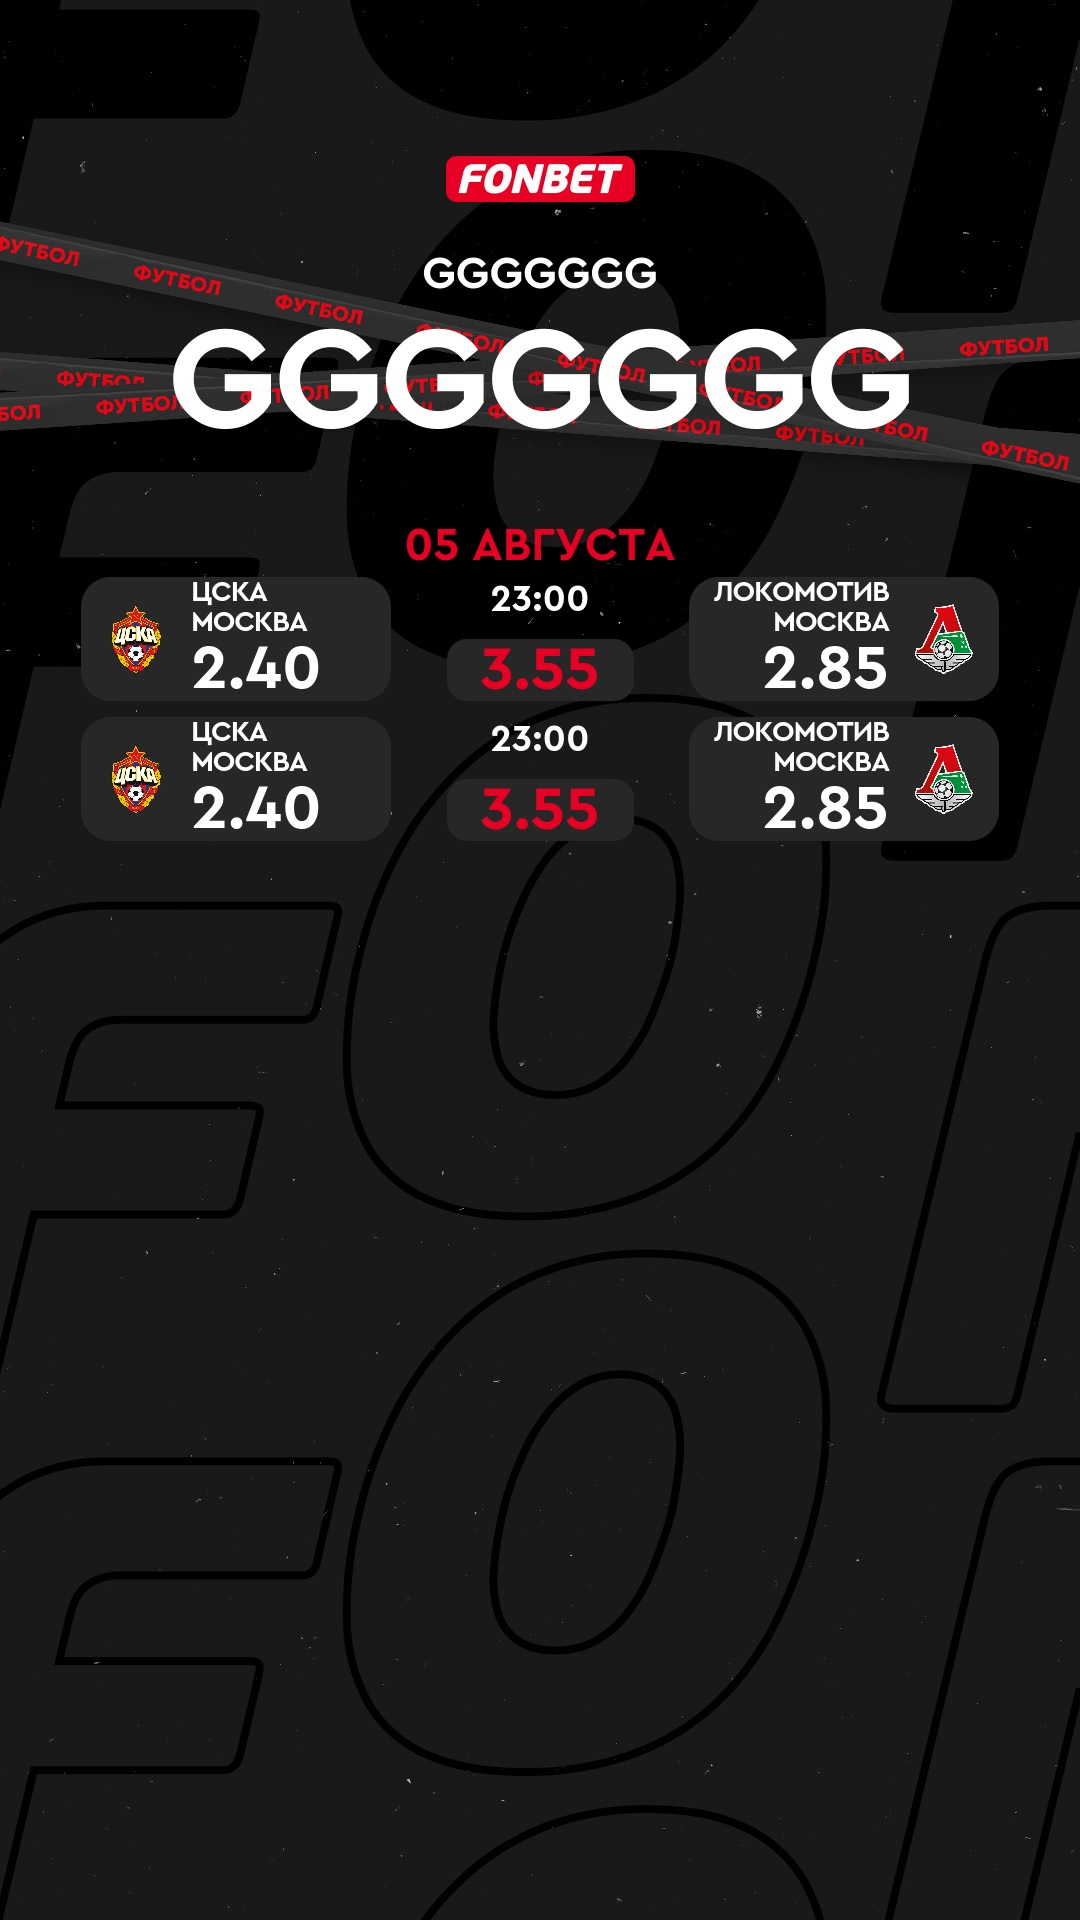
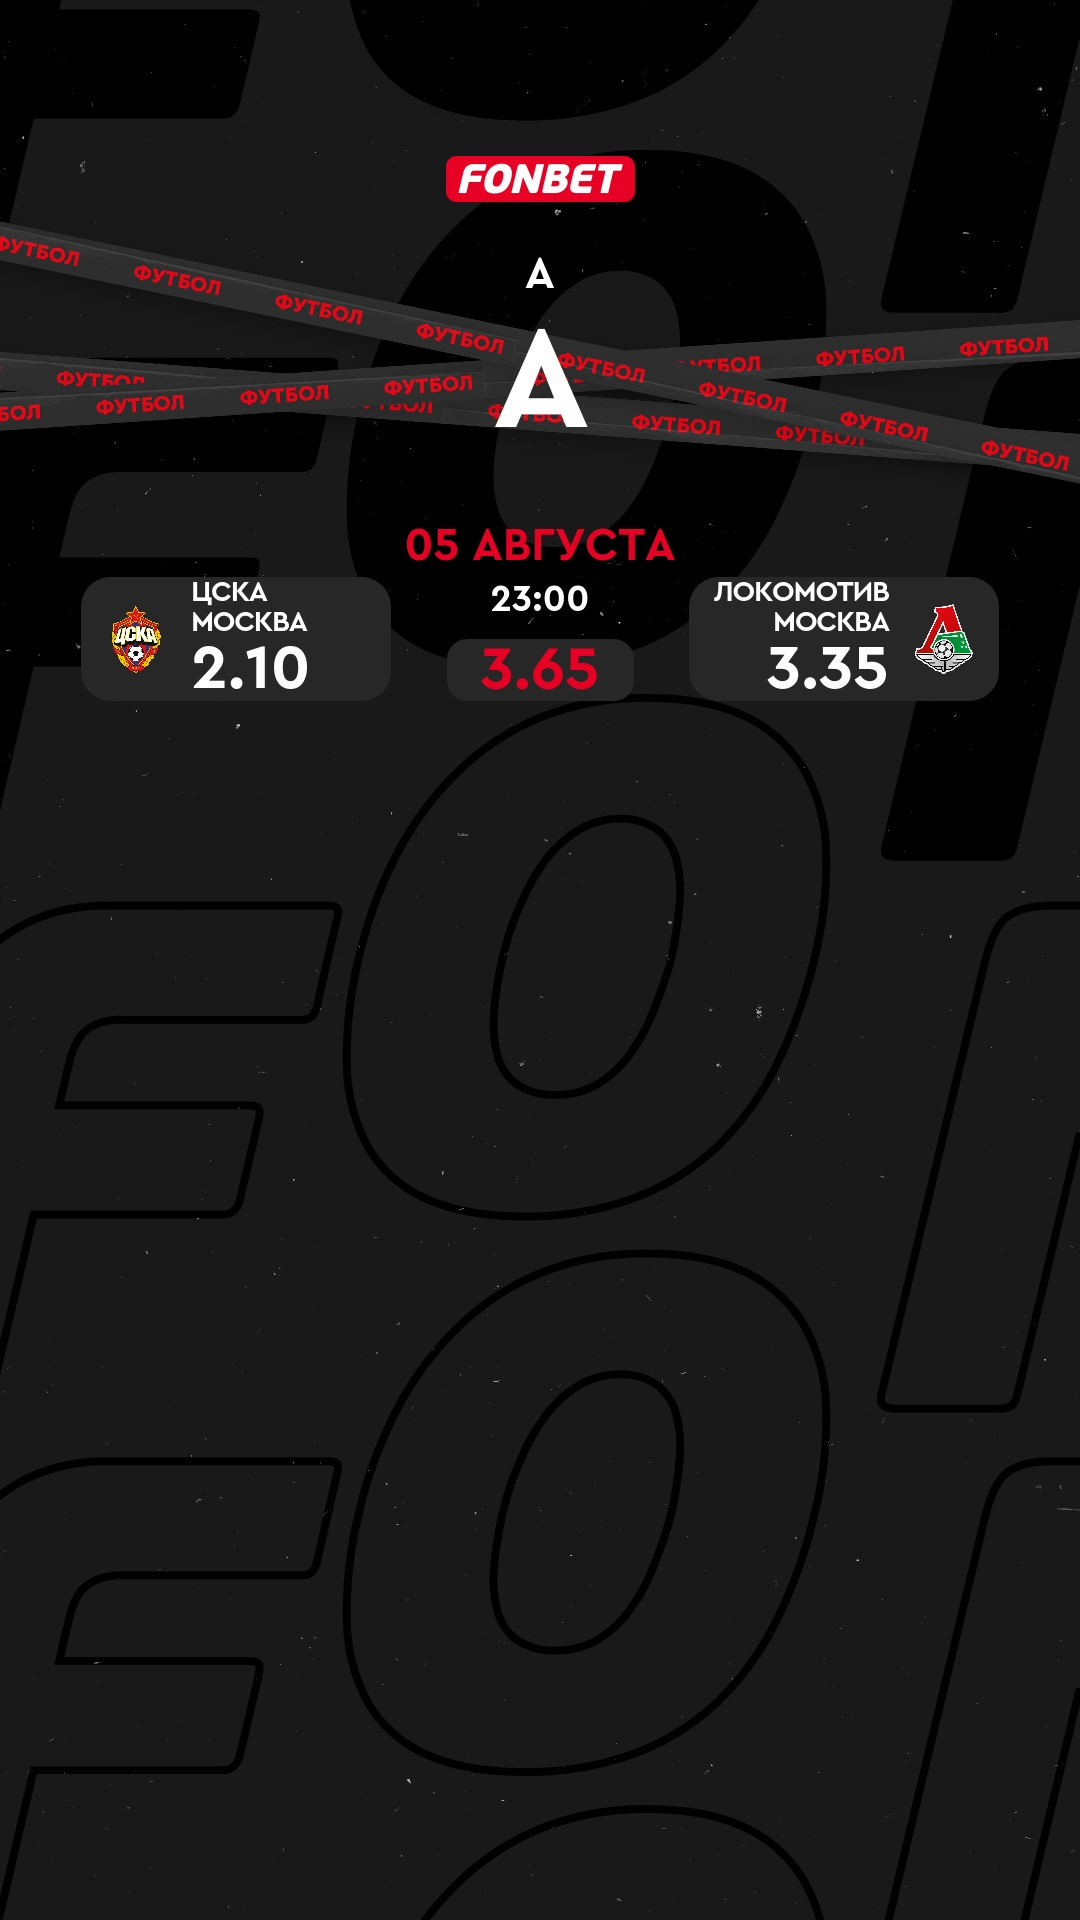
fix

diff --git a/index.html b/index.html
@@ -240,8 +240,8 @@
     <div class="background">
         <img class="logo" src="./assets/logo.svg" width="191" height="46">
         <div class="stripe">
-            <div class="small-title">ggggggg</div>
-            <div class="big-title">ggggggg</div>
+            <div class="small-title">a</div>
+            <div class="big-title">a</div>
         </div>
         <div class="date">05 августа</div>
         <div class="table"><div class="row">
@@ -249,37 +249,18 @@
                     <img class="image" src="https://origin.kzac51-resources.com/ContentCommon/Logotypes/TeamLogos/Football/Russia/new300/CSKA_Moscow.png" alt="First team logo">
                     <div class="info">
                         <div class="name">ЦСКА Москва</div>
-                        <div class="rate">2.40</div>
+                        <div class="rate">2.10</div>
                     </div>
                 </div>
                 <div class="middle-cell">
                     <div class="time">23:00</div>
-                    <div class="middle-rate">3.55</div>
+                    <div class="middle-rate">3.65</div>
                 </div>
                 <div class="mirror-cell">
                     <img class="mirror-image" src="https://origin.kzac51-resources.com/ContentCommon/Logotypes/TeamLogos/Football/Russia/new300/Lokomotiv_Moscow.png" alt="Second team logo">
                     <div class="mirror-info">
                         <div class="name">Локомотив Москва</div>
-                        <div class="rate">2.85</div>
-                    </div>
-                </div>
-            </div><div class="row">
-                <div class="cell">
-                    <img class="image" src="https://origin.kzac51-resources.com/ContentCommon/Logotypes/TeamLogos/Football/Russia/new300/CSKA_Moscow.png" alt="First team logo">
-                    <div class="info">
-                        <div class="name">ЦСКА Москва</div>
-                        <div class="rate">2.40</div>
-                    </div>
-                </div>
-                <div class="middle-cell">
-                    <div class="time">23:00</div>
-                    <div class="middle-rate">3.55</div>
-                </div>
-                <div class="mirror-cell">
-                    <img class="mirror-image" src="https://origin.kzac51-resources.com/ContentCommon/Logotypes/TeamLogos/Football/Russia/new300/Lokomotiv_Moscow.png" alt="Second team logo">
-                    <div class="mirror-info">
-                        <div class="name">Локомотив Москва</div>
-                        <div class="rate">2.85</div>
+                        <div class="rate">3.35</div>
                     </div>
                 </div>
             </div></div></div></body></html>

diff --git a/bot/handlers.py b/bot/handlers.py
@@ -2,10 +2,12 @@ from aiogram import types, Dispatcher
 from bot.bot_base import bot
 from aiogram.dispatcher import FSMContext
 from aiogram.dispatcher.filters.state import State, StatesGroup
-from bot.buttons import main_menu_keyboard, cancellation_keyboard, generation_keyboard
+from bot.buttons import main_menu_keyboard, cancellation_keyboard
 from aiogram.utils import exceptions
 from bot.get_pair_info import get_pair_info
 from pathlib import Path
+from main.driver.browser_utils import BrowserUtils
+from selenium import common
 destination = Path(__file__).resolve().parent.parent
 
 # Машины состояний бота
@@ -52,17 +54,22 @@ async def generate(message: types.Message, state: FSMContext):
     #     get_pair_info(DataUtils.dict_to_model(data))
     #     await state.finish()
 
-    await bot.send_message(chat_id = message.from_user.id, text='Ожидай баннер...', reply_markup=main_menu_keyboard)
+    await bot.send_message(chat_id = message.from_user.id, text='Ожидай баннер...', reply_markup=cancellation_keyboard)
     async with state.proxy() as data:
         data['games'].append(message.text)
     await get_pair_info(state)
-    await message.reply_document(open(f'{destination}/index.jpg', 'rb'))
+    await message.reply_document(open(f'{destination}/index.jpg', 'rb'), reply_markup=main_menu_keyboard)
     await state.finish()
 
-# Антифлуд
+# Обработчики ошибок
 
 async def exception_handler(update: types.Update, exception: exceptions.RetryAfter):
     await bot.send_message(chat_id = update.message.from_user.id, text='Сервера telegram перегружены, попробуй позже =)', reply_markup=main_menu_keyboard)
+    return True
+
+async def selenium_timeout_exception_handler(update: types.Update, exception: common.exceptions.TimeoutException):
+    BrowserUtils.quit_driver()
+    await bot.send_message(chat_id = update.message.from_user.id, text='Проблемы с интернетом, попробуй ещё раз =)', reply_markup=cancellation_keyboard)
     return True
 
 # Регистратура хэндлеров бота
@@ -77,3 +84,4 @@ def register_handler_client(dp: Dispatcher):
     dp.register_message_handler(generate, state=Generator.generator2)
 
     dp.register_errors_handler(exception_handler, exception=exceptions.RetryAfter)
+    dp.register_errors_handler(selenium_timeout_exception_handler, exception=common.exceptions.TimeoutException)

diff --git a/main/driver/browser_factory.py b/main/driver/browser_factory.py
@@ -14,12 +14,15 @@ class BrowserFactory(classutilities.ClassPropertiesMixin):
                 if (ConfigManager.get_config_data().is_headless):
                     options.add_argument("--headless=new")
                     options.add_argument('--disable-gpu')
+
                 if (ConfigManager.get_config_data().locale):
                     browser_locale = ConfigManager.get_config_data().locale
                     options.add_argument("--lang={}".format(browser_locale))
+
                 cls.__instance = webdriver.Chrome(options=options)
                 if (ConfigManager.get_config_data().is_maximize):
                     cls.__instance.maximize_window()
+
                 if (ConfigManager.get_config_data().timeout):
                     cls.__instance.set_page_load_timeout(ConfigManager.get_config_data().timeout)
 
@@ -29,12 +32,15 @@ class BrowserFactory(classutilities.ClassPropertiesMixin):
                 if (ConfigManager.get_config_data().is_headless):
                     options.add_argument("--headless=new")
                     options.add_argument('--disable-gpu')
+
                 if (ConfigManager.get_config_data().locale):
                     browser_locale = ConfigManager.get_config_data().locale
                     options.add_argument("--lang={}".format(browser_locale))
+
                 cls.__instance = webdriver.Firefox(options=options)
                 if (ConfigManager.get_config_data().is_maximize):
                     cls.__instance.maximize_window()
+                    
                 if (ConfigManager.get_config_data().timeout):
                     cls.__instance.set_page_load_timeout(ConfigManager.get_config_data().timeout)
 

diff --git a/bot/buttons.py b/bot/buttons.py
@@ -2,13 +2,8 @@ from aiogram.types import ReplyKeyboardMarkup, KeyboardButton
 
 b1 = KeyboardButton('Начать')
 b2 = KeyboardButton('Отмена')
-b3 = KeyboardButton('Сгенерировать!')
-
 main_menu_keyboard = ReplyKeyboardMarkup(resize_keyboard=True)
 main_menu_keyboard.add(b1)
 
 cancellation_keyboard = ReplyKeyboardMarkup(resize_keyboard=True)
 cancellation_keyboard.add(b2)
-
-generation_keyboard = ReplyKeyboardMarkup(resize_keyboard=True)
-generation_keyboard.add(b3).insert(b2)

diff --git a/bot/get_pair_info.py b/bot/get_pair_info.py
@@ -16,3 +16,4 @@ async def get_pair_info(state):
 
         HTMLUtils.generate_HTML(data['tournament_name'], models_list)
         HTMLUtils.HTML_to_jpg()
+        BrowserUtils.quit_driver()
